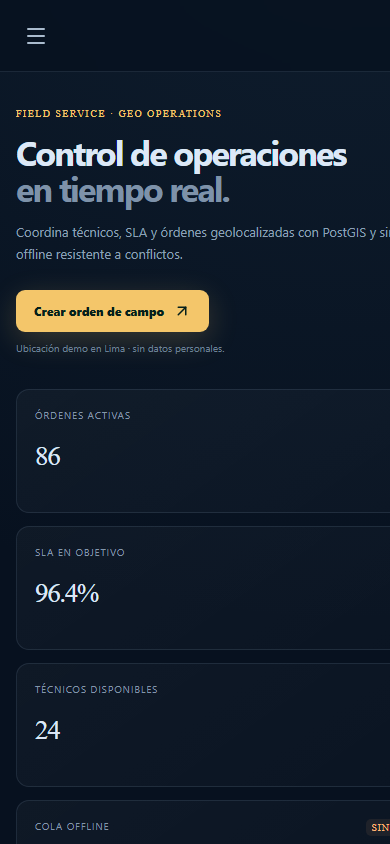
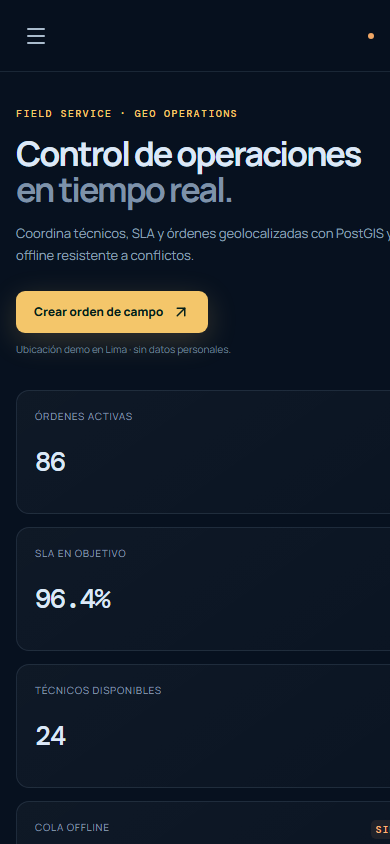
docs(portfolio): add per-view evidence and real GitFlow

diff --git a/frontend/src/App.tsx b/frontend/src/App.tsx
@@ -10,6 +10,7 @@ type ApiState = 'checking'|'online'|'offline';
 type Theme = 'dark'|'light';
 
 const icons = [Activity, Boxes, Server, ShieldCheck, Gauge];
+const portfolioRelease = project.name === 'OrderFlow' ? 'v0.4.0' : 'v0.3.0';
 
 export default function App() {
   const params = new URLSearchParams(window.location.search);
@@ -52,7 +53,7 @@ export default function App() {
       <button className="close" aria-label="Cerrar menú" onClick={()=>setMobile(false)}><X/></button>
       <div className="brand"><span className="brand-mark">{project.initials}</span><div><b>{project.name}</b><small>Operations</small></div></div>
       <nav>{project.nav.map((item,index)=>{const Icon=icons[index]??Server;return <button className={index===activeView?'active':''} aria-current={index===activeView?'page':undefined} onClick={()=>selectView(index)} key={item}><span><Icon size={17}/></span>{item}</button>})}</nav>
-      <div className="sidebar-card"><Command size={19}/><b>Java Platform</b><p>Cinco vistas operativas con evidencia reproducible.</p><span>release {project.release ?? 'portfolio'}</span></div>
+      <div className="sidebar-card"><Command size={19}/><b>Java Platform</b><p>Cinco vistas operativas con evidencia reproducible.</p><span>release {project.release ?? portfolioRelease}</span></div>
       <div className="profile"><span>AR</span><div><b>Andrea R.</b><small>Platform operator</small></div></div>
     </aside>
     <main>

diff --git a/README.md b/README.md
@@ -14,7 +14,7 @@ sincronización offline con conflictos explícitos.</i></p>
   <img src="https://img.shields.io/badge/PostGIS-geoespacial-4169E1?logo=postgresql&logoColor=white" alt="PostGIS">
   <img src="https://img.shields.io/badge/offline--first-conflict_aware-F4C66A" alt="Offline first">
   <img src="https://img.shields.io/badge/React-19-61DAFB?logo=react&logoColor=black" alt="React 19">
-  <img src="https://img.shields.io/badge/pruebas-2_aprobadas-2EAD33" alt="2 pruebas">
+  <img src="https://img.shields.io/badge/pruebas-3_aprobadas-2EAD33" alt="3 pruebas">
   <a href="LICENSE"><img src="https://img.shields.io/badge/licencia-MIT-blue" alt="MIT"></a>
 </p>
 
@@ -63,9 +63,15 @@ sintéticas y señala el modo demostración mientras la API no esté en `8091`.
 
 ## Capturas
 
-| Escritorio | Móvil |
-|---|---|
-| <img src="docs/screenshots/dashboard-desktop.png" alt="FieldOps escritorio" width="620"> | <img src="docs/screenshots/dashboard-mobile.png" alt="FieldOps móvil" width="230"> |
+| Pantalla | Claro | Oscuro |
+|---|---|---|
+| Dispatch board | ![Dispatch board claro](docs/screenshots/01-dispatch-board-light.png) | ![Dispatch board oscuro](docs/screenshots/01-dispatch-board-dark.png) |
+| Órdenes | ![Órdenes claro](docs/screenshots/02-ordenes-light.png) | ![Órdenes oscuro](docs/screenshots/02-ordenes-dark.png) |
+| Técnicos | ![Técnicos claro](docs/screenshots/03-tecnicos-light.png) | ![Técnicos oscuro](docs/screenshots/03-tecnicos-dark.png) |
+| Mapa operativo | ![Mapa claro](docs/screenshots/04-mapa-operativo-light.png) | ![Mapa oscuro](docs/screenshots/04-mapa-operativo-dark.png) |
+| Sincronización | ![Sincronización clara](docs/screenshots/05-sincronizacion-light.png) | ![Sincronización oscura](docs/screenshots/05-sincronizacion-dark.png) |
+
+<p align="center"><img src="docs/screenshots/dashboard-mobile.png" alt="FieldOps móvil" width="230"></p>
 
 ---
 
@@ -161,6 +167,9 @@ cd frontend && npm ci && npm test && npm run build
 ---
 
 ## Flujo de trabajo con Git
+
+El gráfico muestra el historial real hasta `v0.3.0`, incluyendo feature, fix,
+hotfix, documentación, releases, tags y merges de retorno.
 
 <p align="center">
   <img src="diagrams/rendered/gitflow.svg" alt="GitFlow FieldOps" width="760">

diff --git a/docs/README.md b/docs/README.md
@@ -4,7 +4,7 @@
 |---|---|
 | [ADR 0001](adr/0001-postgis-proximity.md) | Búsqueda geoespacial y unidades |
 | [ADR 0002](adr/0002-offline-conflicts.md) | Idempotencia y conflictos offline |
-| [Capturas](screenshots) | Consola real en escritorio y móvil |
+| [Capturas](screenshots) | Cinco vistas en temas claro/oscuro y evidencia móvil |
 | [Diagramas](../diagrams) | Arquitectura, orden de trabajo y GitFlow |
 
 Los diagramas se regeneran con `pwsh scripts/render-diagrams.ps1`.
